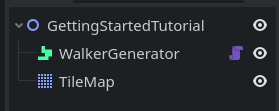
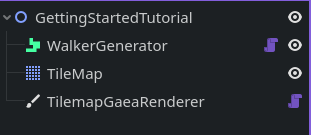
Update Getting Started tutorial

diff --git a/docs/tutorials/getting_started.md b/docs/tutorials/getting_started.md
@@ -12,9 +12,13 @@ In this tutorial, you'll learn how to make basic generation of a dungeon.
 
 Gaea comes with a bunch of different **generator nodes**. To make a dungeon, we'll use the [WalkerGenerator](/generators/walker.md), inspired by the algorithm used in Nuclear Throne.
 
-> You can use the scene at `res://scenes/tutorials/getting_started/getting_started.tscn` to follow this tutorial. It starts with a WalkerGenerator and a TileMap node:\
+> You can use the scene at `res://scenes/tutorials/getting_started/getting_started.tscn` to follow this tutorial. It starts with WalkerGenerator, TilemapGaeaRenderer and TileMap nodes:\
 > ![Scene tree](../assets/tutorials/getting_started/scene-tree.png)
 
+## The renderer
+
+To see the generation, you'll have to render it with a `GaeaRenderer` node. In this case, we will use a `TilemapGaeaRenderer`, which uses a `TileMap` to draw the generator's grid. Set up its references to the `TileMap` and the `WalkerGenerator`.
+![Referencing nodes](../assets/tutorials/getting_started/referencing_nodes.gif)
 
 ### GeneratorSettings
 
